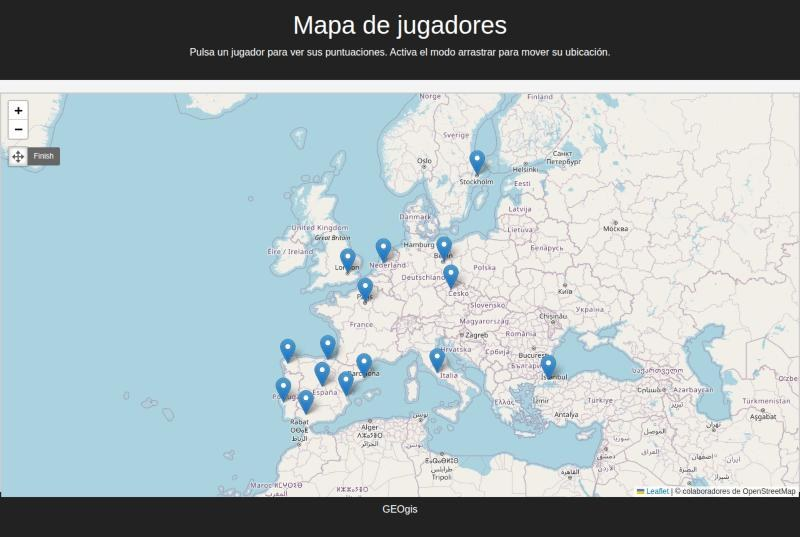
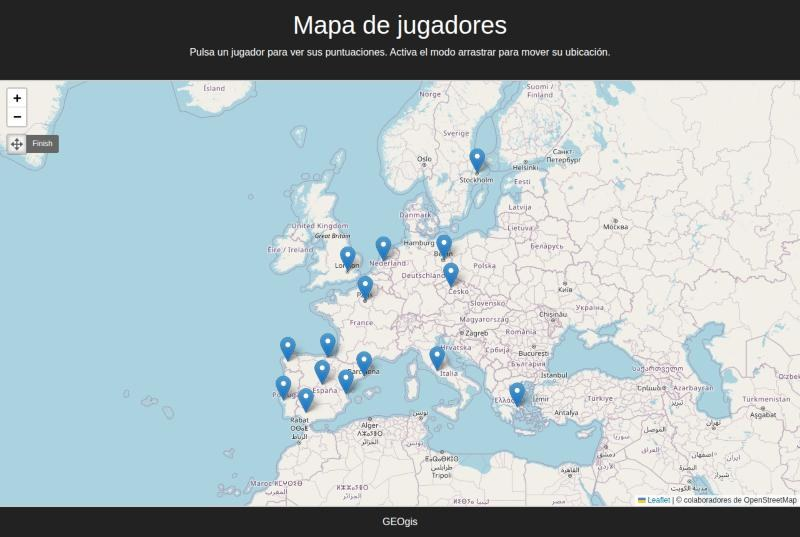
ci: tests con PostGIS y arranque con Docker Compose en GitHub Actions
Añade el badge al README, documenta la API y actualiza las capturas.

diff --git a/README.md b/README.md
@@ -1,5 +1,7 @@
 # GEOgis
 
+[![Tests](https://github.com/EnderFairXD/GEOgis-SimpleWeb/actions/workflows/tests.yml/badge.svg)](https://github.com/EnderFairXD/GEOgis-SimpleWeb/actions/workflows/tests.yml)
+
 Aplicación web con **GeoDjango**, **PostGIS** y **Leaflet**: muestra en un mapa a los jugadores
 de videojuegos, con su plataforma y su historial de puntuaciones, y permite mover su ubicación
 arrastrando el marcador.
@@ -8,14 +10,17 @@ arrastrando el marcador.
 
 ## Qué hace
 
-- **Mapa** con un marcador por jugador que tenga ubicación.
+- **Mapa** con un marcador por jugador que tenga ubicación. Los marcadores cercanos se agrupan
+  (Leaflet.markercluster) y se separan al acercar el zoom.
 - **Ficha del jugador** al pulsar un marcador: alias, nombre, plataforma y puntuaciones por juego.
+- **Jugadores cercanos** en la ficha: los que están a menos de 250, 500, 1000 o 2000 km,
+  ordenados por distancia. La distancia la calcula PostGIS sobre la esfera terrestre.
 - **Modo arrastrar** (control de Geoman, arriba a la izquierda): al soltar un marcador, la nueva
   posición se guarda en la base de datos. Solo aparece para usuarios con permiso para editar
   jugadores, y el servidor rechaza (403) cualquier otro intento.
 - **Panel de administración** de Django con mapa para editar ubicaciones, y puntuaciones por jugador.
 
-| Ficha del jugador | Modo arrastrar (editor) |
+| Ficha con jugadores cercanos | Modo arrastrar (editor) |
 |---|---|
 | ![Ficha con el historial de puntuaciones](docs/capturas/ficha.jpg) | ![Mapa con el control de arrastrar activo](docs/capturas/arrastrar.jpg) |
 
@@ -67,16 +72,25 @@ python manage.py runserver
 Abre <http://127.0.0.1:8000/> para el mapa y <http://127.0.0.1:8000/admin/> para añadir
 jugadores, videojuegos y puntuaciones.
 
+## API
+
+| Método y ruta | Devuelve |
+|---|---|
+| `GET /api/jugadores/` | `FeatureCollection` GeoJSON con los jugadores que tienen ubicación |
+| `GET /api/jugadores/<id>/cercanos/?km=500` | Jugadores a menos de `km` kilómetros, del más cercano al más lejano |
+| `POST /api/jugadores/<id>/ubicacion/` | Guarda `{"lat": …, "lng": …}`. Requiere el permiso `main.change_jugador` |
+
 ## Estructura
 
 | Ruta | Contenido |
 |---|---|
 | `jugadores/` | Configuración del proyecto Django |
 | `main/models.py` | `Jugador` (con `PointField`), `Videojuego` y `Puntuacion` |
-| `main/views.py` | Vista del mapa y endpoint para guardar la ubicación |
-| `main/static/js/Main.js` | Mapa, ficha del jugador y guardado al arrastrar |
+| `main/views.py` | Vista del mapa y endpoints de la API |
+| `main/static/js/Main.js` | Mapa, agrupación, ficha del jugador y guardado al arrastrar |
 | `main/management/commands/cargar_demo.py` | Datos de ejemplo (ficticios) |
-| `main/tests.py` | Tests del mapa, del endpoint y de los datos de ejemplo |
+| `main/tests.py` | Tests de la API, permisos, admin, modelos y datos de ejemplo |
+| `.github/workflows/tests.yml` | CI: tests con PostGIS y arranque completo con Docker Compose |
 
 ## Tests
 
